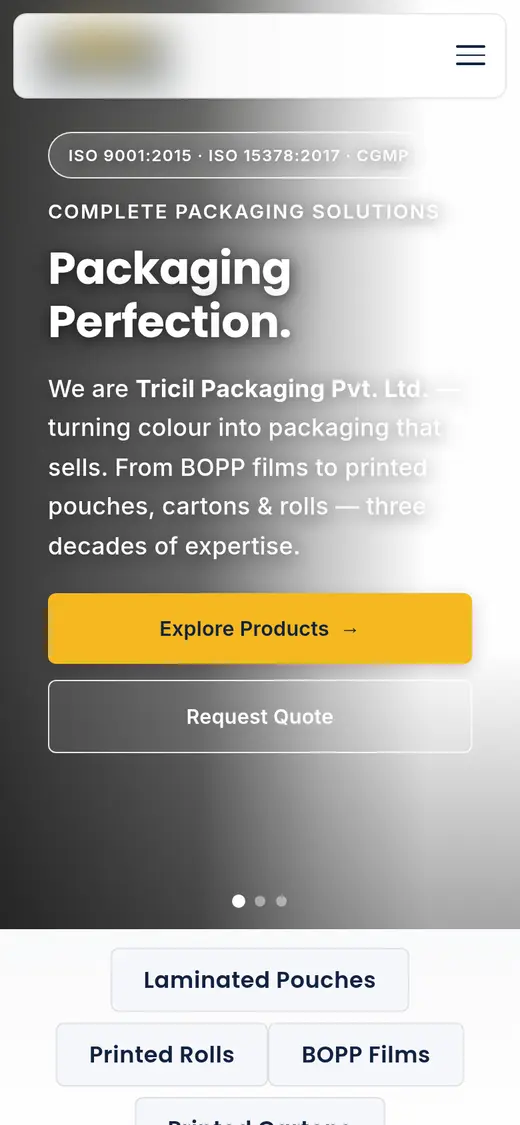
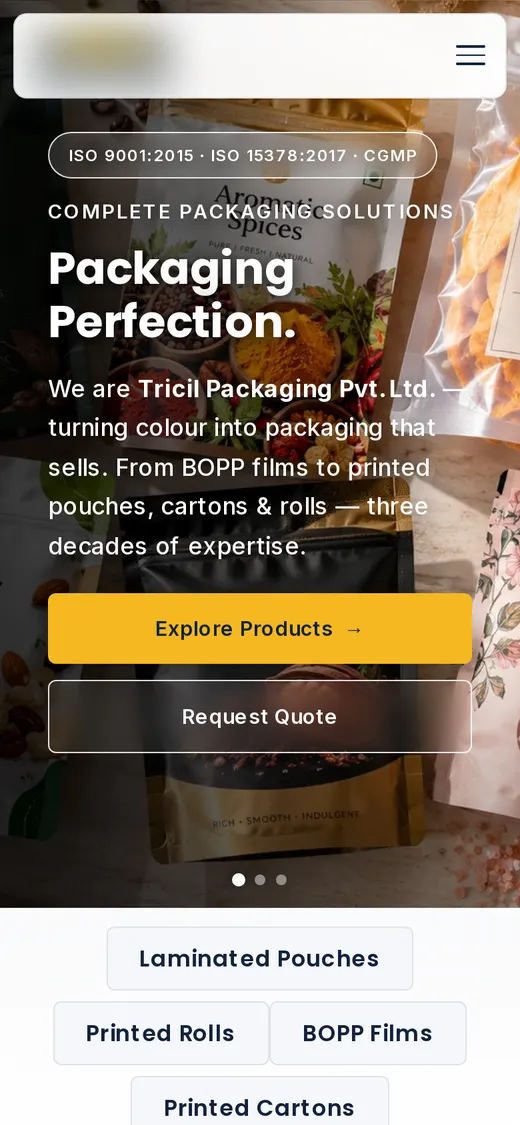
P-011d: fill tricil hero photo and crop pgpl white band
Recaptured tricil.in on a phone viewport after the hero slide
backgrounds loaded, with the logo blurred in the page and the cookie
bar and WhatsApp float removed before the screenshot.

Cropped the pgpltechprint.com capture at the hero's bottom edge so the
blank band under the first screen (about 10% of the frame) is gone, and
pointed the collage frame at the cropped 1200×676 size. Client logos
stay blurred; they are not replaced with the PrintSahaj mark.

diff --git a/web/src/data/showcase.ts b/web/src/data/showcase.ts
@@ -121,8 +121,9 @@ const WEBSITES: CollageSpec = {
     {
       src: "/showcase/web-pgpl-full.webp",
       width: 1200,
-      height: 750,
-      ratio: 1440 / 900,
+      height: 676,
+      // Cropped above the white band under the hero (banner is 810px of a 900px viewport).
+      ratio: 1200 / 676,
       variant: "browser",
       url: "pgpltechprint.com",
       alt: "PGPL Group website (pgpltechprint.com), home page built by PrintSahaj",
